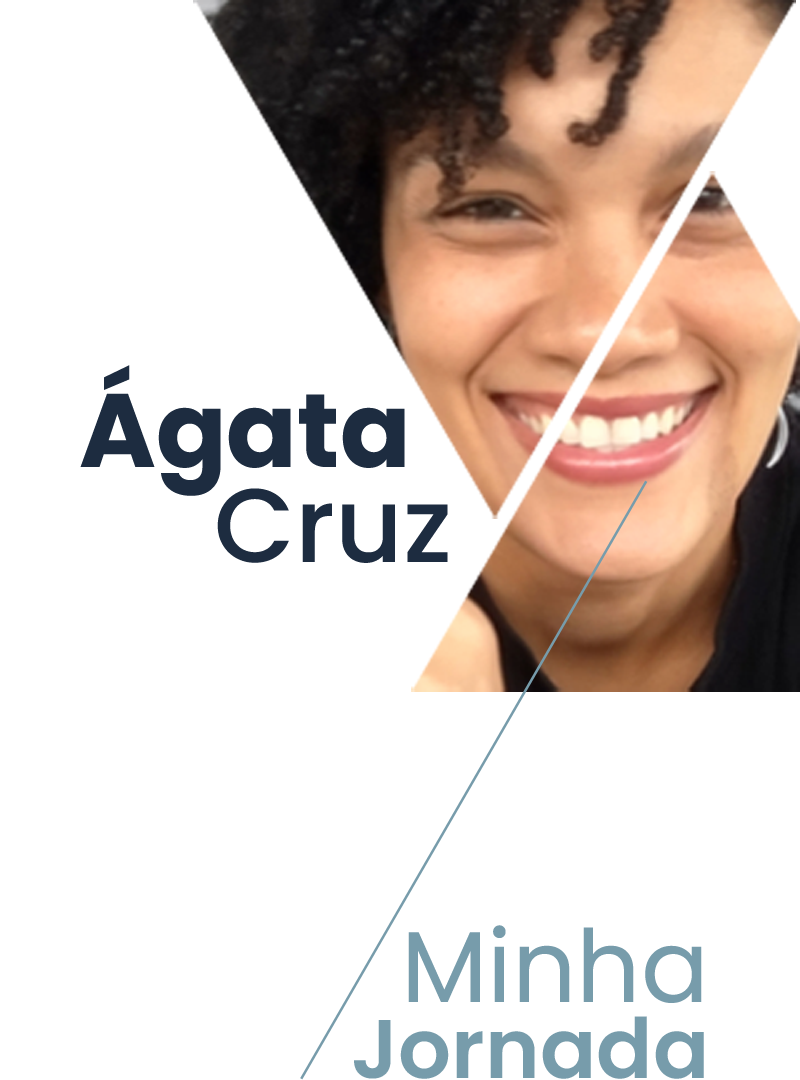
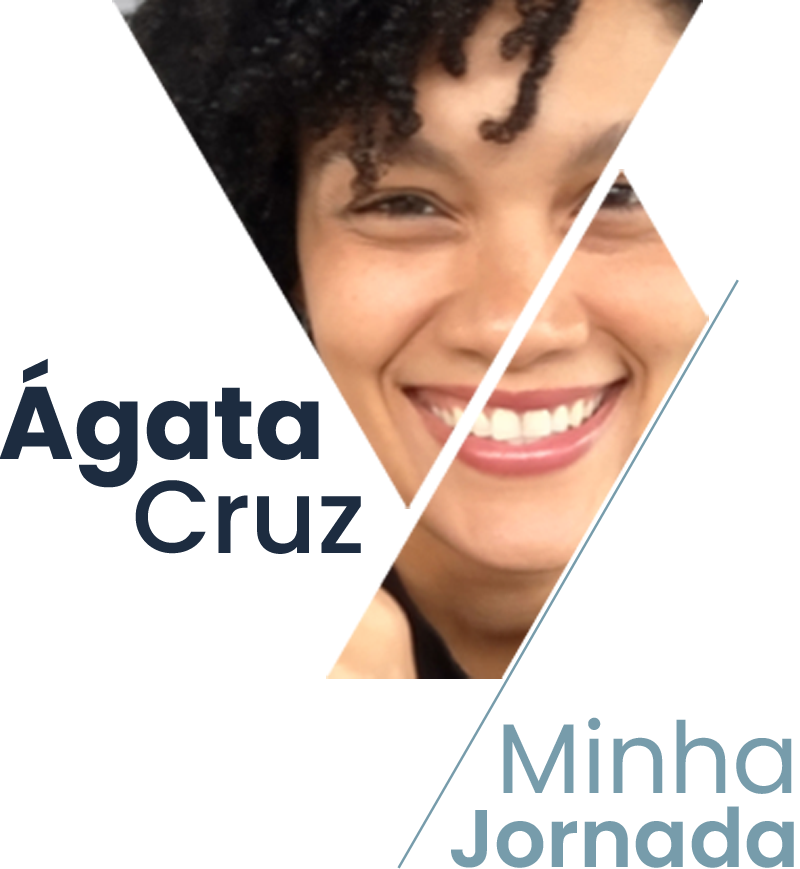
edit page about

diff --git a/about.html b/about.html
@@ -28,41 +28,60 @@
         </nav>
     </header>
     <main>
-        <div id="foto-minha-jornada"></div>
+        <div class="coluna1">
+            <div id="foto-minha-jornada"></div>
+            <div class="fale-comigo-desktop"><a href="https://wa.me/5571986261219" target="_blank">Fale Comigo</a></div>
+            <section class="links-sociais-desktop">
+                <a href="https://www.instagram.com/agatafazsites/" target="_blank">
+                    <div class="instagram-id"></div>
+                </a>
+                <a href="mailto:agatacruzdesign@gmail.com">
+                    <div class="email-id"></div>
+                </a>
+            </section>
+        </div>
 
-        <p id="minha-jornada">
-            Lorem ipsum, dolor sit amet consectetur adipisicing elit. Quo repellendus itaque ducimus, similique eaque fugit consequuntur? Laborum, dolores nobis incidunt ex doloribus, beatae hic natus vitae blanditiis dolorum expedita voluptate! Lorem ipsum, dolor sit amet consectetur adipisicing elit. Quo repellendus itaque ducimus, similique eaque fugit consequuntur? Laborum, dolores nobis incidunt ex doloribus, beatae hic natus vitae blanditiis dolorum expedita voluptate!
-            <br>
-            <br>
-            Lorem ipsum, dolor sit amet consectetur adipisicing elit. Quo repellendus itaque ducimus, similique eaque fugit consequuntur? Laborum, dolores nobis incidunt ex doloribus, beatae hic natus vitae blanditiis dolorum expedita voluptate! Lorem ipsum, dolor sit amet consectetur adipisicing elit. Quo repellendus itaque ducimus, similique eaque fugit consequuntur? Laborum, dolores nobis incidunt ex doloribus, beatae hic natus vitae blanditiis dolorum expedita voluptate!
-            <br>
-            <br>
-            Lorem ipsum, dolor sit amet consectetur adipisicing elit. Quo repellendus itaque ducimus, similique eaque fugit consequuntur? Laborum, dolores nobis incidunt ex doloribus, beatae hic natus vitae blanditiis dolorum expedita voluptate! Lorem ipsum, dolor sit amet consectetur adipisicing elit. Quo repellendus itaque ducimus, similique eaque fugit consequuntur? Laborum, dolores nobis incidunt ex doloribus, beatae hic natus vitae blanditiis dolorum expedita voluptate!
-        </p>
+        <div class="coluna2">
+            <p id="minha-jornada">
+                Lorem ipsum, dolor sit amet consectetur adipisicing elit. Quo repellendus itaque ducimus, similique eaque fugit consequuntur? Laborum, dolores nobis incidunt ex doloribus, beatae hic natus vitae blanditiis dolorum expedita voluptate! Lorem ipsum, dolor sit amet consectetur adipisicing elit. Quo repellendus itaque ducimus, similique eaque fugit consequuntur? Laborum, dolores nobis incidunt ex doloribus, beatae hic natus vitae blanditiis dolorum expedita voluptate!
+                <br>
+                <br>
+                Lorem ipsum, dolor sit amet consectetur adipisicing elit. Quo repellendus itaque ducimus, similique eaque fugit consequuntur? Laborum, dolores nobis incidunt ex doloribus, beatae hic natus vitae blanditiis dolorum expedita voluptate! Lorem ipsum, dolor sit amet consectetur adipisicing elit. Quo repellendus itaque ducimus, similique eaque fugit consequuntur? Laborum, dolores nobis incidunt ex doloribus, beatae hic natus vitae blanditiis dolorum expedita voluptate!
+                <br>
+                <br>
+                Lorem ipsum, dolor sit amet consectetur adipisicing elit. Quo repellendus itaque ducimus, similique eaque fugit consequuntur? Laborum, dolores nobis incidunt ex doloribus, beatae hic natus vitae blanditiis dolorum expedita voluptate! Lorem ipsum, dolor sit amet consectetur adipisicing elit. Quo repellendus itaque ducimus, similique eaque fugit consequuntur? Laborum, dolores nobis incidunt ex doloribus, beatae hic natus vitae blanditiis dolorum expedita voluptate!
+            </p>
 
-        <h2 class="titulo">Certificações</h2>
-        <ul class="certificacoes">
-            <li><strong>Pacote Adobe / Computação Gráfica</strong> BY Escola SAGA - School of Art end Game Animation</li>
-            <li><strong>Formação em Marketing Digital</strong> BY São Paulo Digital School</li>
-            <li><strong>Comunicação e Oratória</strong> BY Escola Conquer</li>
-            <li><strong>Reaprendizagem Criativa</strong> BY Murilo Gun</li>
-            <li><strong>Copywriting</strong> BY Rock University</li>
-        </ul>
-        <h2 class="titulo">Competências</h2>
-        <p class="competencias">Design Sprint • UX • Inteligência Emocional • Design Thinking • CX • Lógica de Programação • Algoritmo • Organização • HTML • CSS • WordPress • Elementor • Git/Github • Ecommerce • Mídias Sociais</p>
+            <div class="coluna2b">
+                <div class="grupo1">
+                    <h2 class="titulo">Certificações</h2>
+                    <ul class="certificacoes">
+                        <li><strong>Pacote Adobe / Computação Gráfica</strong> BY Escola SAGA - School of Art end Game Animation</li>
+                        <li><strong>Formação em Marketing Digital</strong> BY São Paulo Digital School</li>
+                        <li><strong>Comunicação e Oratória</strong> BY Escola Conquer</li>
+                        <li><strong>Reaprendizagem Criativa</strong> BY Murilo Gun</li>
+                        <li><strong>Copywriting</strong> BY Rock University</li>
+                    </ul>
+                </div>
+                <div class="grupo2">
+                    <h2 class="titulo">Competências</h2>
+                    <p class="competencias">Design Sprint • UX • Inteligência Emocional • Design Thinking • CX • Lógica de Programação • Algoritmo • Organização • HTML • CSS • WordPress • Elementor • Git/Github • Ecommerce • Mídias Sociais</p>
+                </div>
+            </div>
 
-        <div class="link-perfil-completo">
-            <a href="https://www.linkedin.com/in/agatacruz/" target="_blank">Ver perfil completo no LinkedIn</a>
+            <div class="link-perfil-completo">
+                <a href="https://www.linkedin.com/in/agatacruz/" target="_blank">Ver perfil completo no LinkedIn</a>
+            </div>
         </div>
 
         <div class="fale-comigo"><a href="https://wa.me/5571986261219" target="_blank">Fale Comigo</a></div>
 
         <section class="links-sociais">
             <a href="https://www.instagram.com/agatafazsites/" target="_blank">
-                <div id="instagram-id"></div>
+                <div class="instagram-id"></div>
             </a>
             <a href="mailto:agatacruzdesign@gmail.com">
-                <div id="email-id"></div>
+                <div class="email-id"></div>
             </a>
         </section>
     </main>

diff --git a/estilos/about-media-query.css b/estilos/about-media-query.css
@@ -19,4 +19,123 @@
 
     section.links-sociais {
         width: 15%;
+    }
+}
+
+@media (min-width: 1024px) {
+
+    main {
+        display: flex;
+        flex-direction: row;
+        justify-content: space-between;
+    }
+
+    div.coluna1 {
+        display: block;
+        width: 50%;
+        height: 100vh;
+        margin-top: 70px;
+    }
+
+    div.coluna2 {
+        display: block;
+        width: 50%;
+        height: 100vh;
+    }
+
+    p#minha-jornada {
+        padding: 40px;
+        text-align: justify;
+        font-size: 1em;
+        line-height: 1.7em;
+    }
+
+    div.link-perfil-completo {
+        margin: auto;
+        text-align: center;
+        font-size: 1em;
+        font-weight: 400;
+        padding-bottom: 35px;
+    }
+
+    div.coluna2b{
+        display: flex;
+        flex-direction: row;
+        justify-content: space-around;
+    }
+
+    div.grupo1 {
+        width: 60%;
+    }
+
+    div.grupo2 {
+        width: 40%;
+    }
+
+    h2.titulo {
+        font-size: 1.4em;
+        font-weight: 500;
+        text-align: center;
+    }
+
+    ul.certificacoes {
+        font-size: 1em;
+        padding: 30px;
+        line-height: 1em;
+    }
+
+    p.competencias {
+        font-size: 1em;
+        text-align: left;
+        padding: 30px;
+        line-height: 1.4em;
+    }
+
+    div.fale-comigo {
+        display: none;
+    }
+
+    section.links-sociais {
+        display: none;
+    }
+
+    div.fale-comigo-desktop {
+        display: block;
+        margin: auto;
+        width: 20%;
+        background-color: #1D2C40;
+        padding: 10px;
+        text-align: center;
+        cursor: pointer;
+        margin-bottom: 30px;
+        margin-top: 150px;
+    }
+
+    div.fale-comigo-desktop > a {
+        text-decoration: none;
+        font-size: 1em;
+        color: white;
+    }
+
+    section.links-sociais-desktop {
+        display: block;
+        width: 12%;
+        margin: auto;
+        margin-bottom: 30px;
+        display: flex;
+        flex-direction: row;
+        justify-content: space-around;
+        gap: 5px;
+    }
+
+    div.instagram-id {
+        width: 30px;
+        height: 30px;
+    }
+
+    div.email-id {
+        width: 30px;
+        height: 30px;
+    }
+
 }

diff --git a/estilos/about-style.css b/estilos/about-style.css
@@ -11,7 +11,10 @@
     box-sizing: border-box;
 }
 
-
+/* body. html {
+    width: 100vw;
+    height: 100vh;
+} */
 
 div.logo-principal {
     margin-bottom: 20px;
@@ -112,6 +115,10 @@ div.fale-comigo {
     margin-bottom: 50px;
 }
 
+div.fale-comigo-desktop {
+    display: none;
+}
+
 div.fale-comigo > a {
     text-decoration: none;
     font-size: 1.5em;
@@ -128,14 +135,18 @@ section.links-sociais {
     gap: 5px;
 }
 
-div#instagram-id {
+section.links-sociais-desktop {
+    display: none;
+}
+
+div.instagram-id {
     width: 40px;
     height: 40px;
     background-image: url(../imagens/icon-instagram.png);
     background-size: cover;
 }
 
-div#email-id {
+div.email-id {
     width: 40px;
     height: 40px;
     background-image: url(../imagens/icon-e-mail.png);
